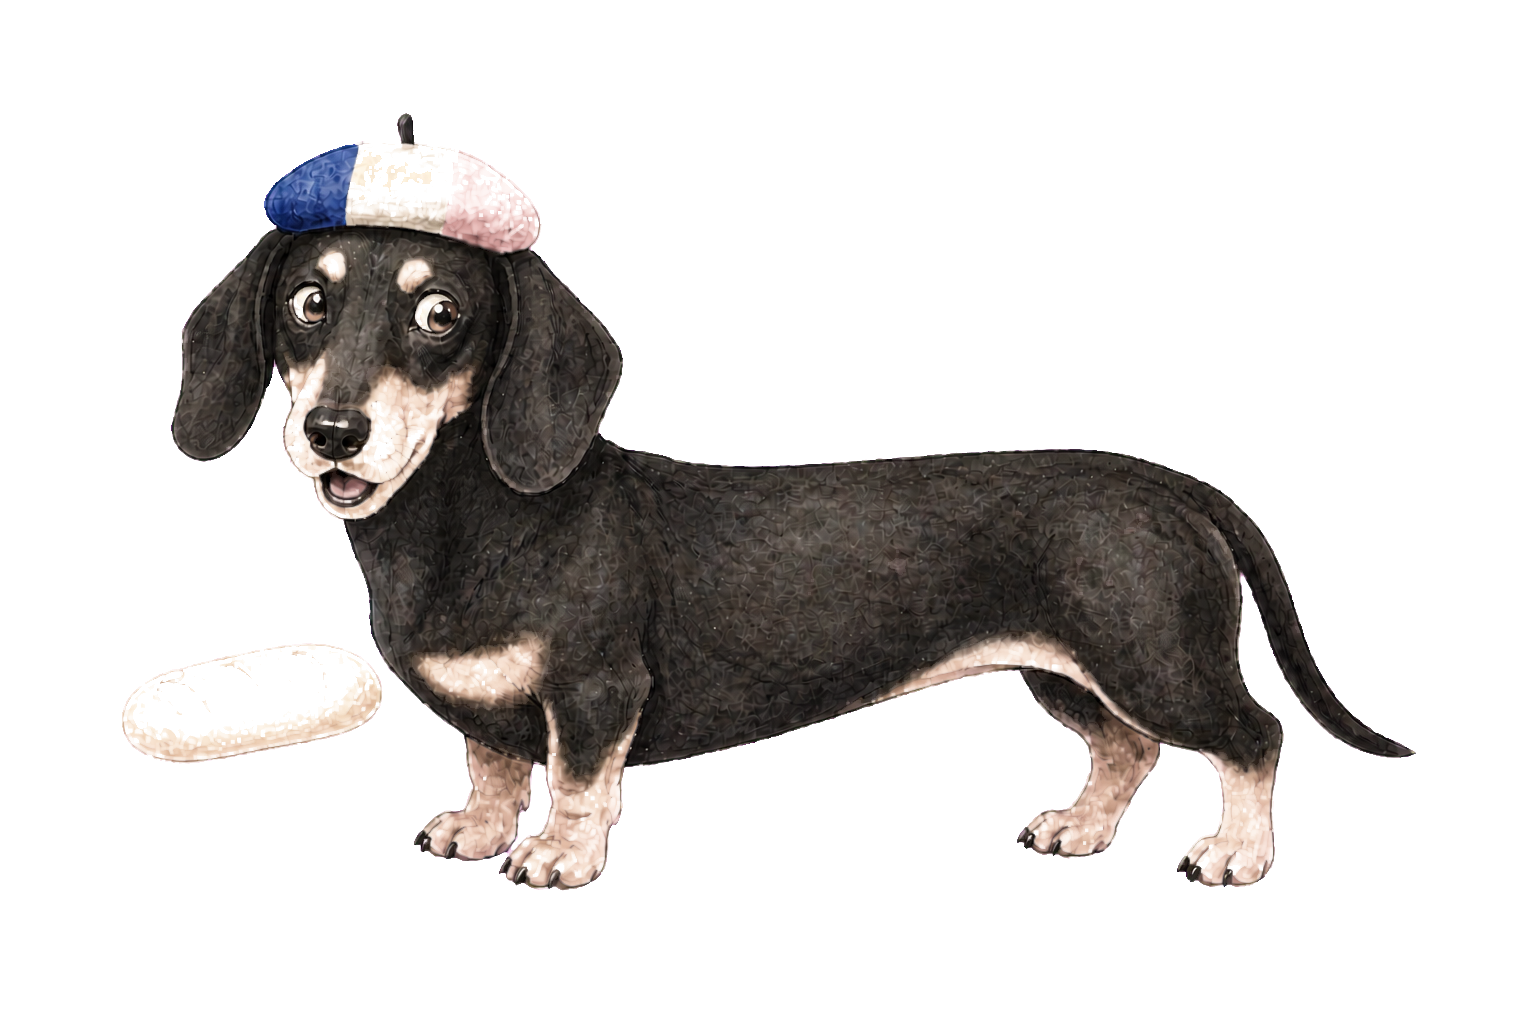
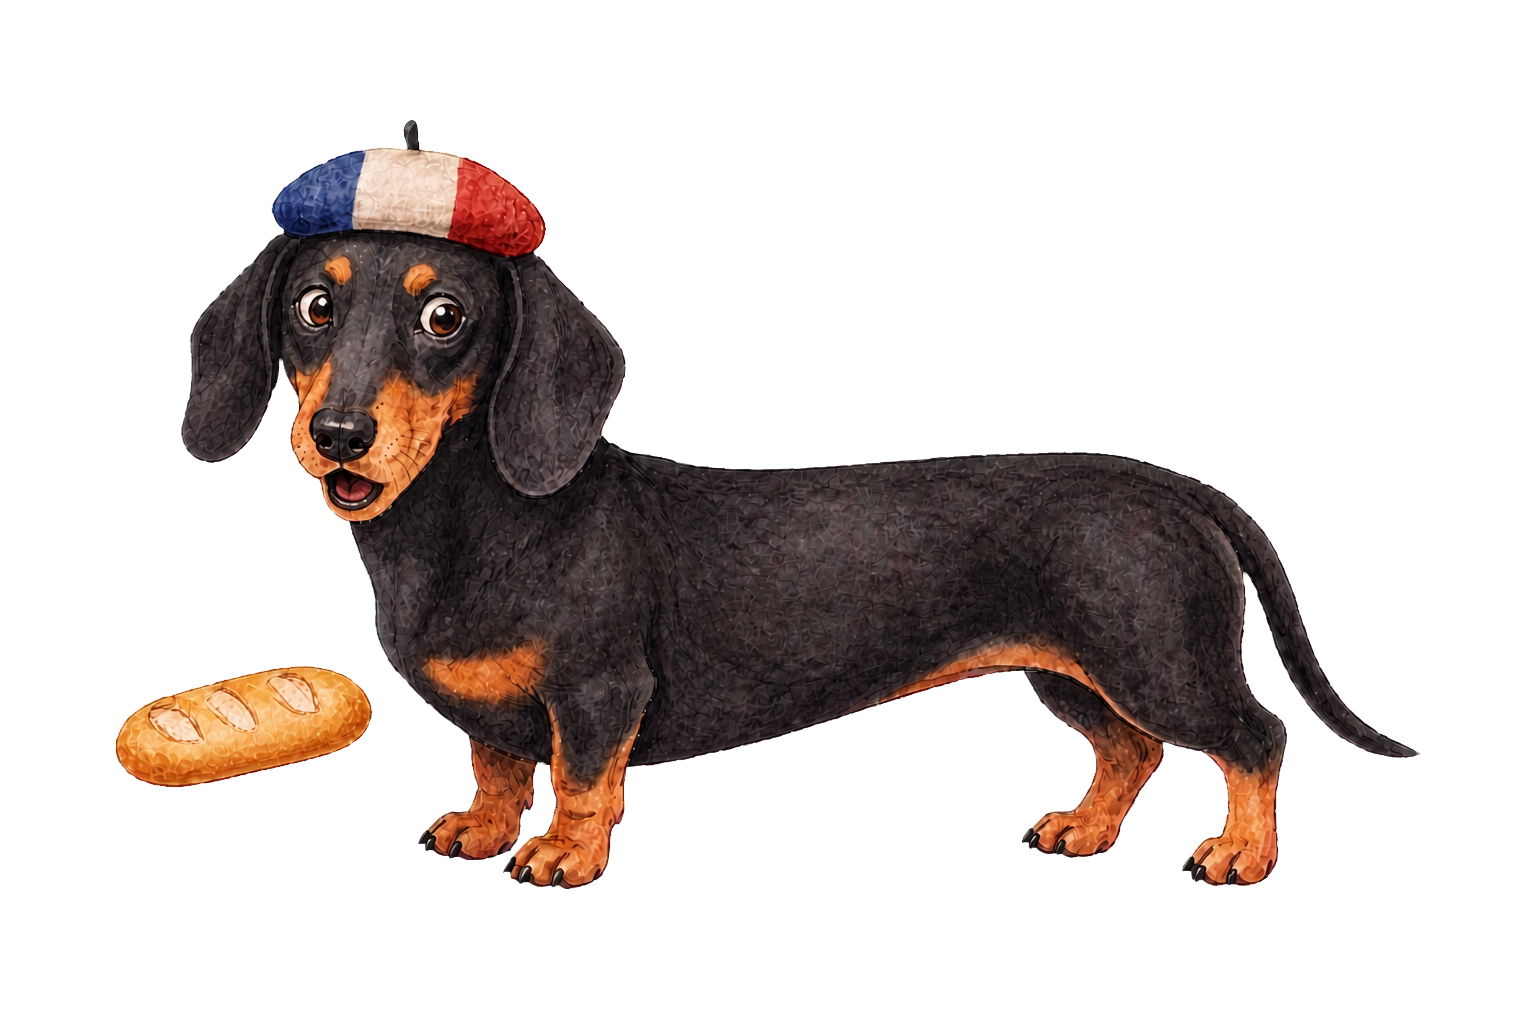
Fix dachshund colors and hover target

Changed region(s): [[0.0625, 0.0938, 0.9375, 0.875]]

diff --git a/app/globals.css b/app/globals.css
@@ -848,7 +848,7 @@ button {
   border: 0;
   background: transparent;
   filter: drop-shadow(0 10px 10px rgba(17, 17, 17, 0.11));
-  cursor: pointer;
+  pointer-events: none;
   user-select: none;
 }
 
@@ -870,18 +870,34 @@ button {
   opacity: 0;
 }
 
-.about-dachshund:hover,
-.about-dachshund:focus-visible {
+.about-dachshund-hitbox {
+  position: absolute;
+  inset: 0;
+  z-index: 2;
+  padding: 0;
+  border: 0;
+  background: transparent;
+  cursor: pointer;
+  pointer-events: auto;
+  clip-path: polygon(
+    18% 10%, 37% 10%, 44% 23%, 45% 39%, 74% 40%, 88% 46%,
+    97% 68%, 89% 66%, 86% 87%, 82% 94%, 76% 92%, 72% 72%,
+    43% 78%, 40% 95%, 28% 95%, 26% 78%, 21% 68%, 17% 58%,
+    10% 47%, 12% 25%
+  );
+}
+
+.about-dachshund-hitbox:focus-visible {
   outline: none;
 }
 
-.about-dachshund:hover .about-dachshund-resting,
-.about-dachshund:focus-visible .about-dachshund-resting {
+.about-dachshund:has(.about-dachshund-hitbox:hover) .about-dachshund-resting,
+.about-dachshund:has(.about-dachshund-hitbox:focus-visible) .about-dachshund-resting {
   opacity: 0;
 }
 
-.about-dachshund:hover .about-dachshund-surprised,
-.about-dachshund:focus-visible .about-dachshund-surprised {
+.about-dachshund:has(.about-dachshund-hitbox:hover) .about-dachshund-surprised,
+.about-dachshund:has(.about-dachshund-hitbox:focus-visible) .about-dachshund-surprised {
   opacity: 1;
 }
 

diff --git a/app/about/page.tsx b/app/about/page.tsx
@@ -27,11 +27,7 @@ export default function AboutPage() {
           <div className="about-wide-frame">
             <MovieTicketFlip />
           </div>
-          <button
-            type="button"
-            className="about-dachshund"
-            aria-label="Hover to surprise the dachshund"
-          >
+          <div className="about-dachshund">
             <img
               className="about-dachshund-resting"
               src="/images/dachshund-baguette.png"
@@ -42,7 +38,12 @@ export default function AboutPage() {
               src="/images/dachshund-surprised.png"
               alt="The surprised dachshund dropping its baguette"
             />
-          </button>
+            <button
+              type="button"
+              className="about-dachshund-hitbox"
+              aria-label="Hover to surprise the dachshund"
+            />
+          </div>
           <IceWineReveal />
           <div className="about-portrait-frame">
             <img src="/images/yihung-chen-portrait.jpg" alt="Yihung Chen portrait" />
